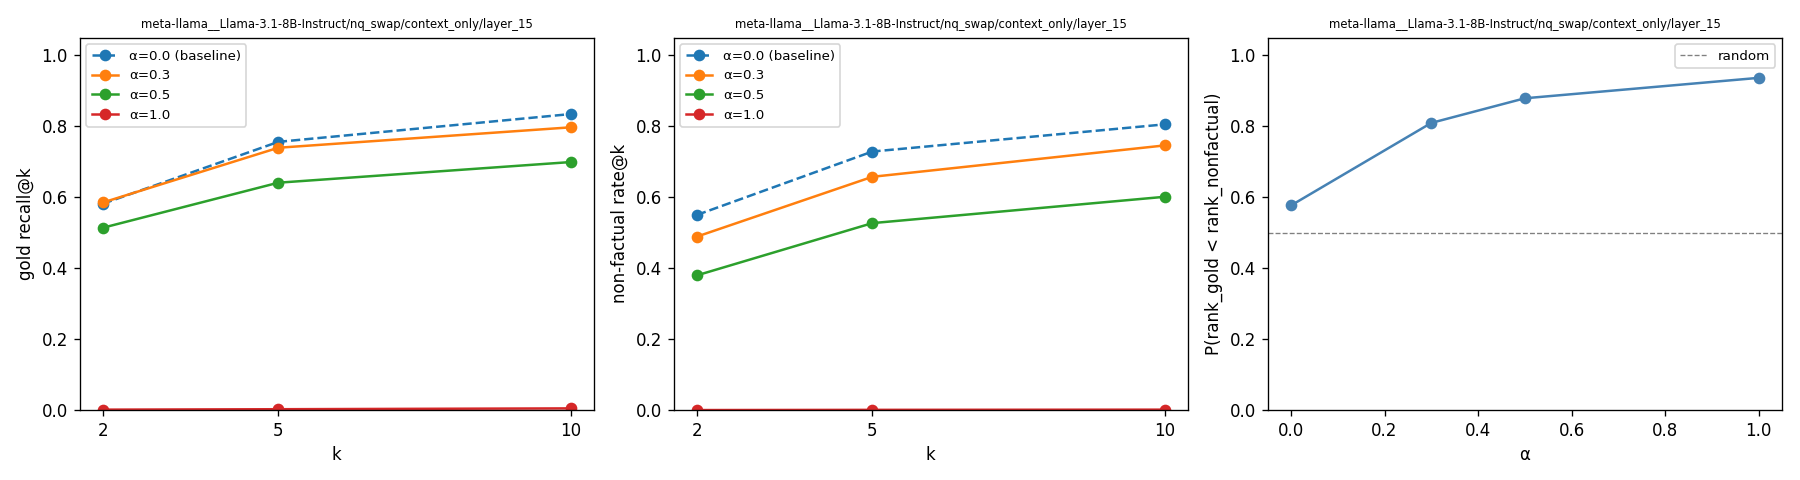
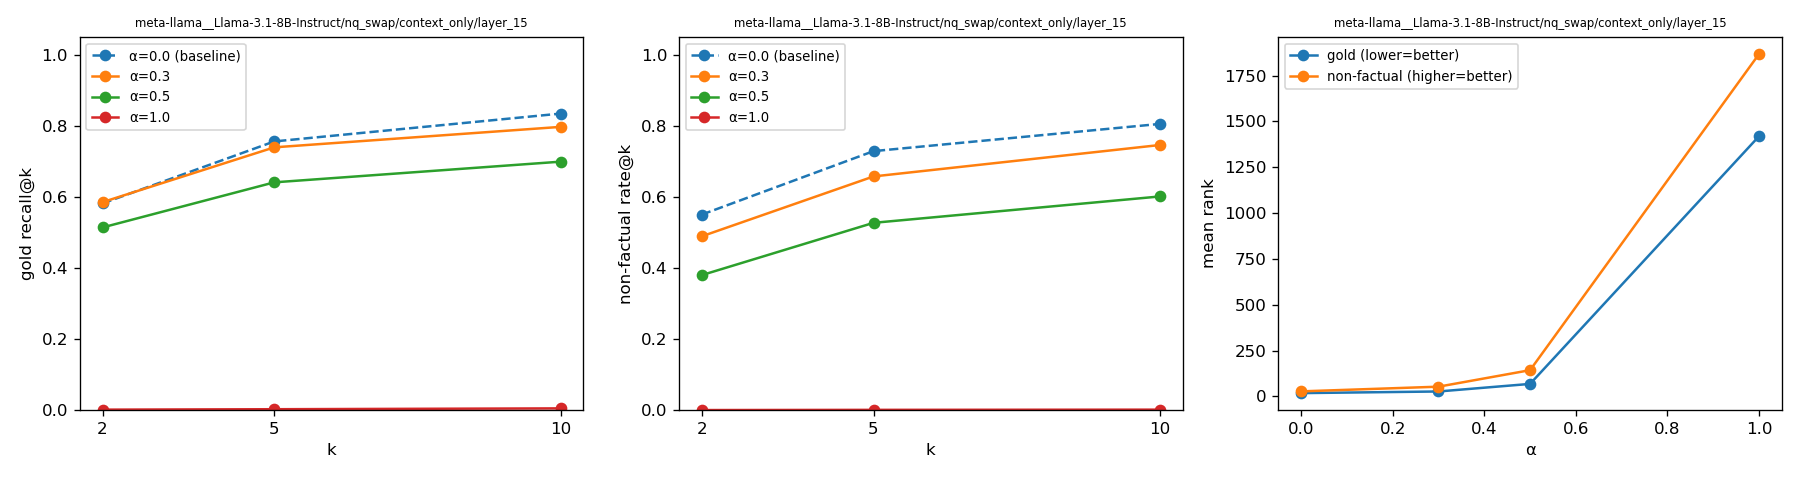
Added plot of retrieval by rank

diff --git a/src/experiments/plot_retrieval_evaluation.py b/src/experiments/plot_retrieval_evaluation.py
@@ -62,15 +62,15 @@ def plot_results(results_path: Path, out_path: Path) -> None:
     if has_rank:
         ax3 = axes[2]
         first_k = ks[0]
-        p_vals = []
+        mean_gold, mean_nf = [], []
         for alpha in alphas:
             rows = [r for r in rank_records if r["alpha"] == alpha and r["k"] == first_k]
-            p_vals.append(sum(r["gold_rank"] < r["nonfactual_rank"] for r in rows) / len(rows))
-        ax3.plot(alphas, p_vals, marker="o", color="steelblue")
-        ax3.axhline(0.5, color="gray", linestyle="--", linewidth=0.8, label="random")
+            mean_gold.append(sum(r["gold_rank"] for r in rows) / len(rows))
+            mean_nf.append(sum(r["nonfactual_rank"] for r in rows) / len(rows))
+        ax3.plot(alphas, mean_gold, marker="o", label="gold (lower=better)")
+        ax3.plot(alphas, mean_nf,   marker="o", label="non-factual (higher=better)")
         ax3.set_xlabel("α")
-        ax3.set_ylabel("P(rank_gold < rank_nonfactual)")
-        ax3.set_ylim(0, 1.05)
+        ax3.set_ylabel("mean rank")
         ax3.legend(fontsize=8)
         ax3.set_title(title, fontsize=7)
 
